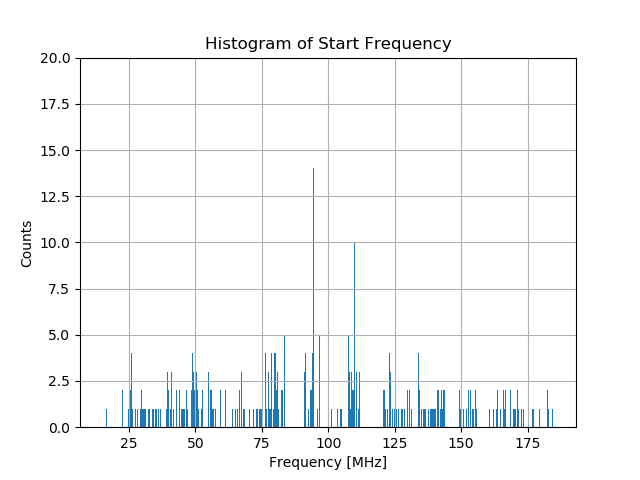
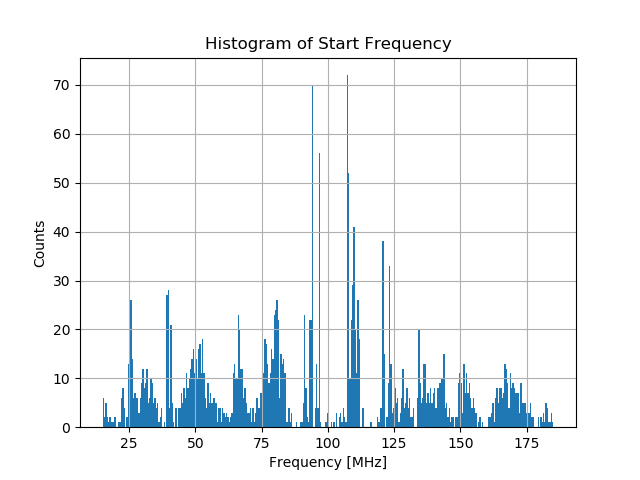
Updated the plotting

diff --git a/plotting.py b/plotting.py
@@ -50,7 +50,7 @@ def start_time_hist(data, binwidth=0.025e-3, filtered=False, save_dir=None, show
     # S E T T T I N G S
     plt.xlabel('Start Time [S]')
     plt.ylabel('Counts')
-    plt.ylim((0,20))
+    plt.ylim((0,55))
     plt.title(title)
     plt.grid()
 
@@ -92,7 +92,7 @@ def start_freq_hist(data, binwidth=0.1, filtered=False, save_dir=None, show=Fals
     # S E T T T I N G S
     plt.title(title)
     plt.ylabel("Counts")
-    plt.ylim((0,20))
+    # plt.ylim((0,20))
     plt.xlabel("Frequency [MHz]")
     plt.grid()
 
@@ -129,7 +129,7 @@ def start_freq_v_slope(data, filtered=False, save_dir=None, show=False):
         slopes += list(data[seed][group][dataset][slope])
 
     # Plot in range 1049.5 to 1053 MHz on x-axis and 0.2 to 0.95 MHz/ms on y-axis.
-    plt.figure('Start Freq v Slope')
+    plt.figure('Slope v Start Frequency')
     plt.scatter(startFreqs, slopes, facecolors='none', edgecolors='b', alpha=0.5,)
 
     plt.title(title)
@@ -137,8 +137,7 @@ def start_freq_v_slope(data, filtered=False, save_dir=None, show=False):
     plt.ylabel("Slope [MHz/ms]")
     plt.grid()
     plt.xlim((105,118))
-    # plt.xlim((1049.5, 1053))
-    # plt.ylim(0.2, 0.95)
+    plt.ylim((0,1.5e9))
 
     if save_dir is not None:
         if os.path.isdir(save_dir):
@@ -153,7 +152,7 @@ def power_v_slope(data, filtered=False, save_dir=None, show=False):
     s_to_ms = 1e3 # seconds to milliseconds
     hzPs_to_MHzPms = 1e-9 # hz/s to MHz/ms
 
-    title = "Slope vs Start Frequency"
+    title = "Track Power vs Slope"
 
     group = 'candidate_tracks'
     dataset = 'candidate_tracks_0'
@@ -168,12 +167,12 @@ def power_v_slope(data, filtered=False, save_dir=None, show=False):
     slopes = list()
     seeds = data.keys()
     for seed in seeds:
-        power += list(data[seed][group][dataset][totPower])
+        power += list(data[seed][group][dataset][totPower] * 1e-1)
         slopes += list(data[seed][group][dataset][slope])
 
     # Plot in range 1049.5 to 1053 MHz on x-axis and 0.2 to 0.95 MHz/ms on y-axis.
     plt.figure('Power v Slope')
-    plt.scatter(slopes, power, facecolors='none', edgecolors='b', alpha=0.5,)
+    plt.scatter(slopes, power, facecolors='none', edgecolors='b', alpha=0.5)
 
     plt.title(title)
     plt.xlabel("Slope [Hz/s]")
@@ -181,7 +180,7 @@ def power_v_slope(data, filtered=False, save_dir=None, show=False):
     plt.grid()
 
     plt.xlim((200e6, 800e6))
-    plt.ylim((0, 50e-18))
+    plt.ylim((0, 50e-21))
 
     if save_dir is not None:
         if os.path.isdir(save_dir):
@@ -249,10 +248,10 @@ if __name__ == "__main__":
     # Process all the data in default directories
     seeds, files, data = process_files()
     save_dir = "./figures/test_properties/"
-    # start_time_hist(data, save_dir=save_dir)
-    # start_freq_hist(data, save_dir=save_dir)
-    # start_freq_v_slope(data, save_dir=save_dir)
-    power_v_slope(data, show=True)
+    start_time_hist(data, save_dir=save_dir)
+    start_freq_hist(data, binwidth=0.5, save_dir=save_dir)
+    start_freq_v_slope(data, save_dir=save_dir)
+    power_v_slope(data, save_dir=save_dir)
 
 
     # Run through the files and construct the necessary plots
